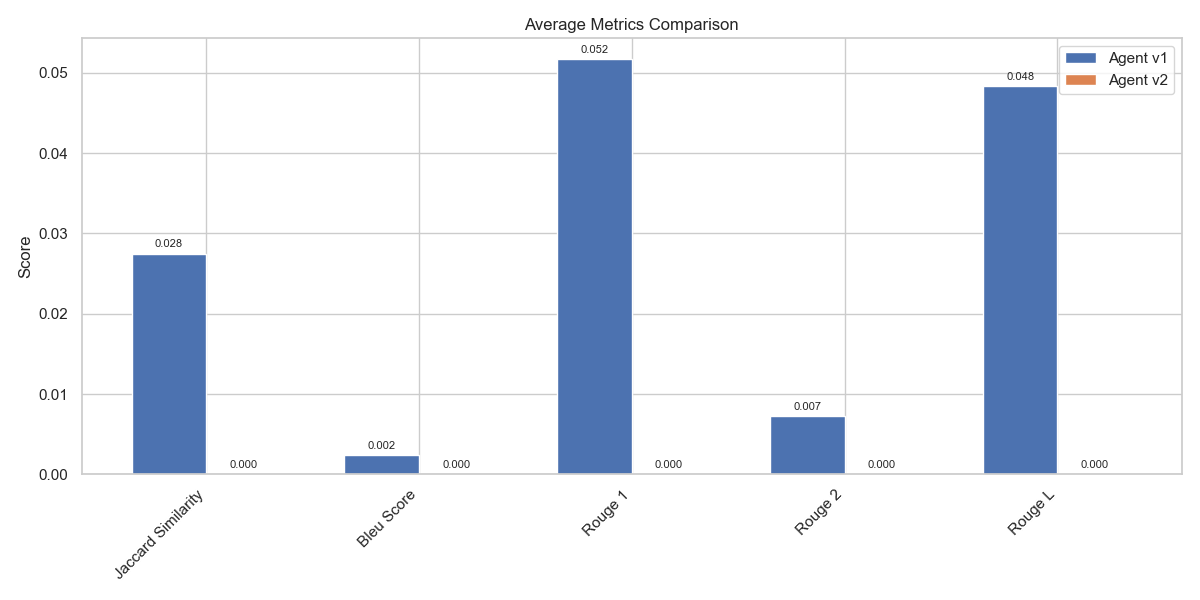
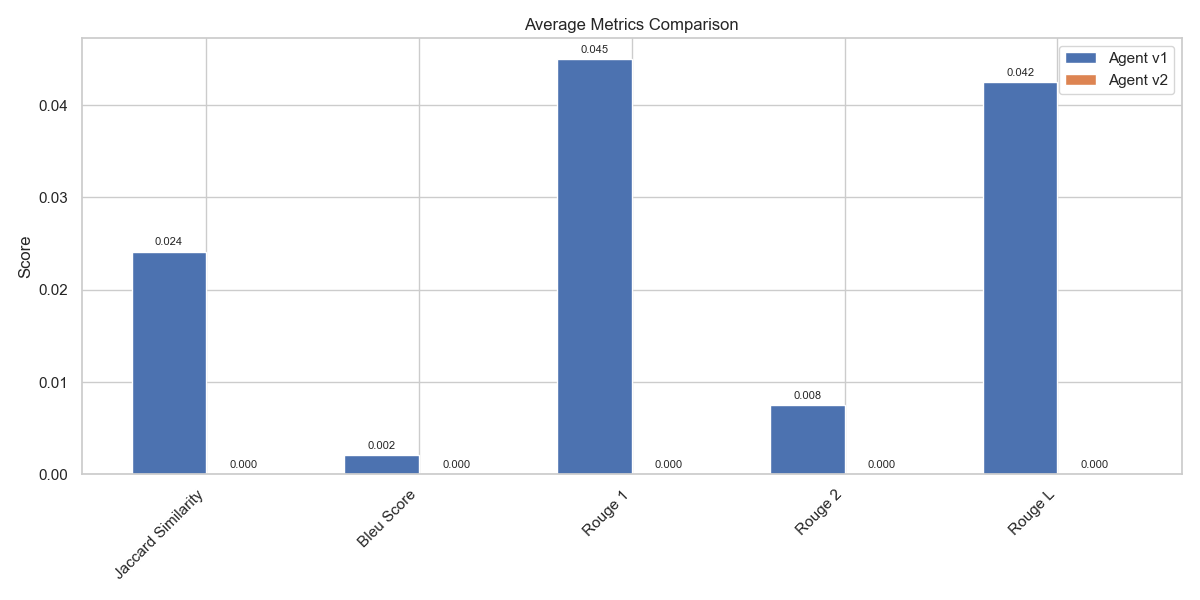
feat: add agent evaluation results with Groq API integration

diff --git a/results/evaluation_report.md b/results/evaluation_report.md
@@ -1,6 +1,6 @@
 # GitHub Copilot Agent Evaluation Report
 
-Generated at: 2025-06-24T11:57:19.208274
+Generated at: 2025-06-24T12:25:40.198186
 
 ## 📊 Summary
 
@@ -20,12 +20,12 @@ Generated at: 2025-06-24T11:57:19.208274
 ### Average Metrics
 | Metric | Agent v1 | Agent v2 | Difference |
 |--------|----------|----------|------------|
-| jaccard_similarity | 0.028 | 0.000 | -0.028 |
+| jaccard_similarity | 0.024 | 0.000 | -0.024 |
 | bleu_score | 0.002 | 0.000 | -0.002 |
-| rouge_1 | 0.052 | 0.000 | -0.052 |
-| rouge_2 | 0.007 | 0.000 | -0.007 |
-| rouge_l | 0.048 | 0.000 | -0.048 |
-| response_time (s) | 9.554 | 0.000 | -9.554 |
+| rouge_1 | 0.045 | 0.000 | -0.045 |
+| rouge_2 | 0.008 | 0.000 | -0.008 |
+| rouge_l | 0.042 | 0.000 | -0.042 |
+| response_time (s) | 10.282 | 0.000 | -10.282 |
 
 ![Metrics Comparison](metrics_comparison.png)
 
@@ -35,11 +35,11 @@ Generated at: 2025-06-24T11:57:19.208274
 
 | ID | Type | Difficulty | v1 Success | v2 Success | v1 Jaccard | v2 Jaccard | v1 BLEU | v2 BLEU | v1 ROUGE-L | v2 ROUGE-L | v1 Time (s) | v2 Time (s) |
 |----|------|------------|------------|------------|------------|------------|---------|---------|------------|------------|-------------|-------------|
-| bug_fix_1 | bug_fix | hard | ✅ | ❌ | 0.030 | 0.000 | 0.003 | 0.000 | 0.040 | 0.000 | 6.18 | 0.00 |
-| code_review_1 | code_review | medium | ✅ | ❌ | 0.052 | 0.000 | 0.004 | 0.000 | 0.097 | 0.000 | 7.47 | 0.00 |
-| pr_creation_1 | pr_creation | easy | ✅ | ❌ | 0.013 | 0.000 | 0.002 | 0.000 | 0.024 | 0.000 | 14.00 | 0.00 |
-| refactor_1 | refactoring | easy | ✅ | ❌ | 0.032 | 0.000 | 0.003 | 0.000 | 0.056 | 0.000 | 6.98 | 0.00 |
-| test_case_1 | test_creation | medium | ✅ | ❌ | 0.010 | 0.000 | 0.001 | 0.000 | 0.026 | 0.000 | 13.13 | 0.00 |
+| bug_fix_1 | bug_fix | hard | ✅ | ❌ | 0.037 | 0.000 | 0.004 | 0.000 | 0.067 | 0.000 | 4.71 | 0.00 |
+| code_review_1 | code_review | medium | ✅ | ❌ | 0.036 | 0.000 | 0.003 | 0.000 | 0.074 | 0.000 | 9.05 | 0.00 |
+| pr_creation_1 | pr_creation | easy | ✅ | ❌ | 0.008 | 0.000 | 0.001 | 0.000 | 0.016 | 0.000 | 18.27 | 0.00 |
+| refactor_1 | refactoring | easy | ✅ | ❌ | 0.026 | 0.000 | 0.002 | 0.000 | 0.034 | 0.000 | 4.54 | 0.00 |
+| test_case_1 | test_creation | medium | ✅ | ❌ | 0.013 | 0.000 | 0.001 | 0.000 | 0.022 | 0.000 | 14.84 | 0.00 |
 </details>
 
 ## ⚙ Configuration
